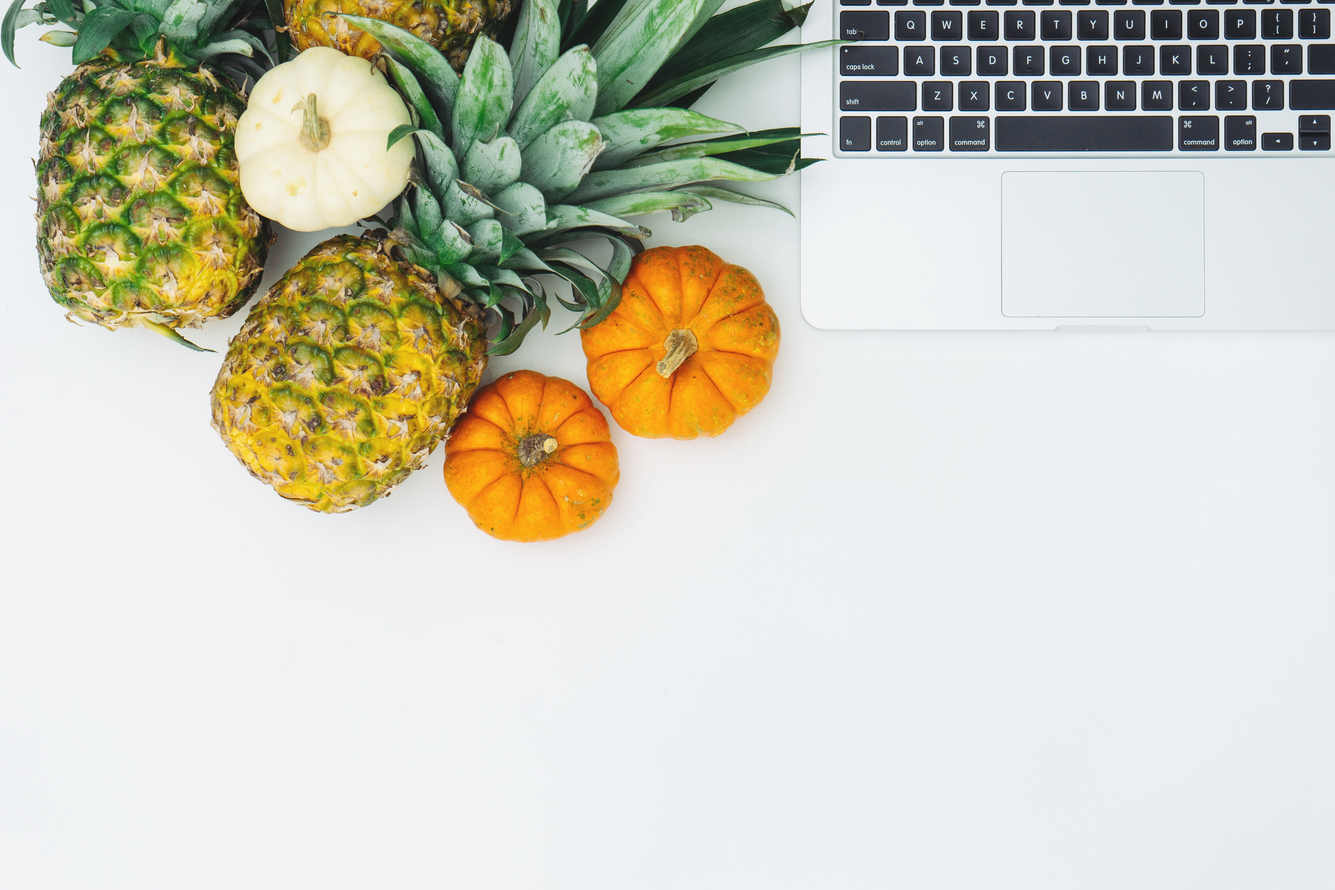
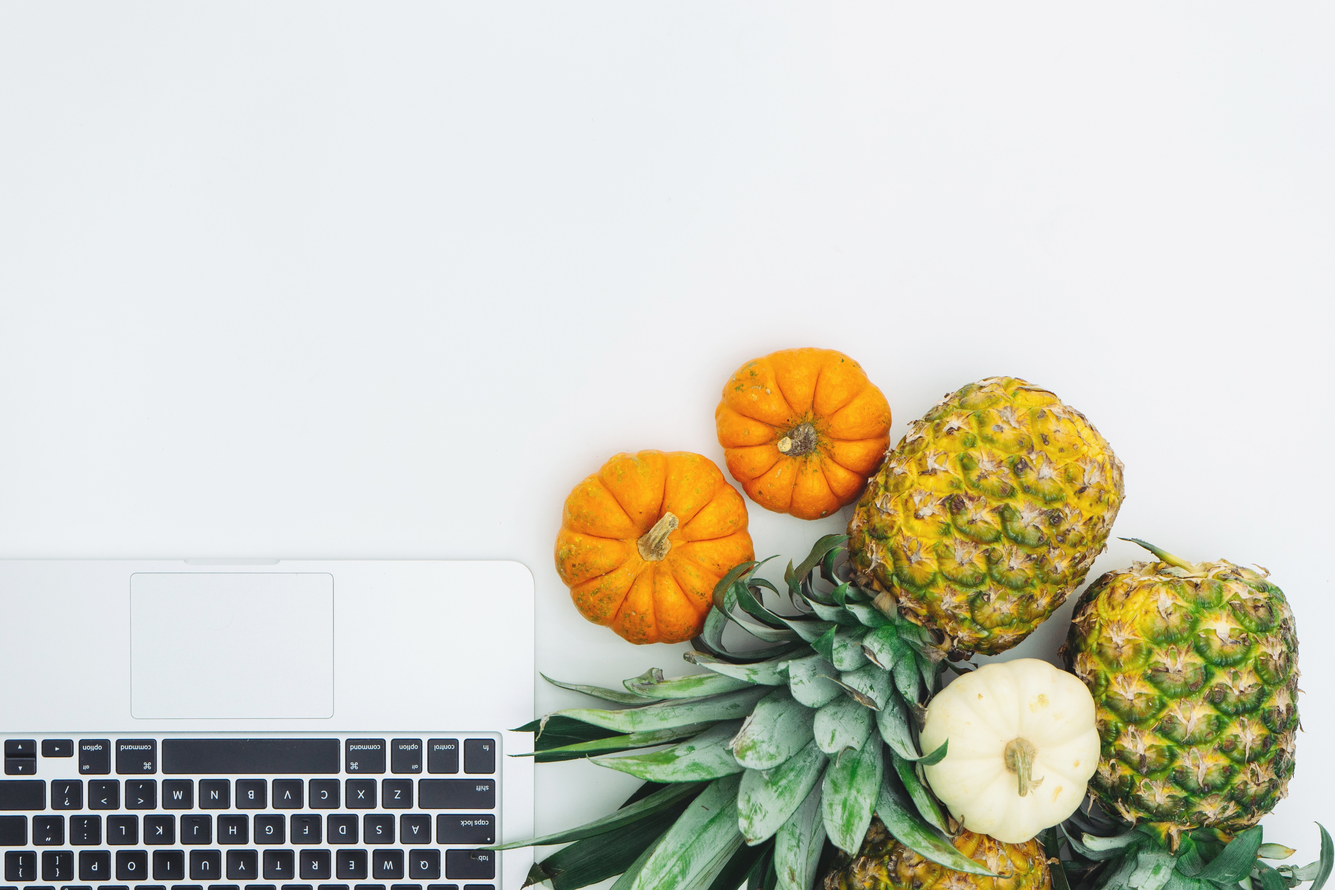
added title animation

diff --git a/styles/styles.css b/styles/styles.css
@@ -5,106 +5,143 @@ ul {
 
 a {
   text-decoration: none;
-  color: rgb(223, 169, 97);
-}
-
-body {
-  background-color: whitesmoke;
-  font-family: 'Cutive Mono', monospace;
-}
-
-/* Header block--------------------------- */
-#header {
-  background-image: url("../images/phone.jpg");
-  background-position: left;
-  height: 10vh;
-  border-bottom: 2px solid grey;
-  box-shadow: 0px 5px 10px 0px rgb(245, 227, 251);
-  position: relative;
-}
-
-#header ul {
-  display:flex;
-  list-style-type: none;
-  justify-content: space-around;
-  align-items: center;
-  font-size: 1.5em;
-  color: rgb(87, 9, 32);
-  font-weight: bold;
-}
-
-#header ul li a:hover {
   color: rgb(67, 43, 71);
 }
 
-/* Profile-------------- ----------------------*/
+body {
+  font-family: 'Cutive Mono', monospace;
+  background-color: whitesmoke;
+}
 
+body .base {
+  background: url("../images/pineapple-supply.jpg");
+  background-repeat: no-repeat;
+  background-size: contain;
+  background-position: bottom right;
+}
 
+/* Header block--------------------------- */
+.header {
+  position: sticky;
+  position: -webkit-sticky;
+  background-color: white;
+  background-position: left;
+  height: 5vh;
+  border-bottom: 2px solid grey;
+  font-size: 1.5em;
+  top: 0;
+  width: 100%;
+}
 
+.header ul {
+  display: flex;
+  justify-content: space-around;
+  align-items: center;
+  color: rgb(114, 97, 119);
+}
 
+.header ul li a:hover {
+  color: rgb(223, 169, 97);
+}
 
+/* Profile-------------- ---------*/
 
+.title h1:first-child {
+  width: 80vw;
+  margin: 20% auto;
+  font-size: 4em;
+  display: inline-block;
+  position: absolute;
+  animation: appear 2s;
+  left: 315px;
+}
 
+@keyframes appear {
+  from {
+    left: -100px;
+  }
+  to {
+    left: 315px;
+  }
+}
+@-moz-keyframes appear {
+  /* Firefox */
+  from {
+    left: -100px;
+  }
+  to {
+    left: 315px;
+  }
+}
+@-webkit-keyframes appear {
+  /* Safari and Chrome */
+  from {
+    left: -100px;
+  }
+  to {
+    left: 315px;
+  }
+}
+@-o-keyframes appear {
+  /* Opera */
+  from {
+    left: -100px;
+  }
+  to {
+    left: 315px;
+  }
+}
 
-
-
-
-
+.splash-content {
+  font-size: 2em;
+  margin: 30% auto;
+  display: inline-block;
+}
 
 
 /* Dee's quick intro to profile-project */
 
 /* div with nav bar */
-.site-container > section {
+/* .site-container > section {
   margin: 100px auto;
-}
+} */
 
 /* name/ small intro  */
-.splash-content {
+/* .splash-content {
   width: 80vw;
   margin: 0 auto;
-}
+} */
 
-/* container on text and image and use flex box to vertically align  */
-profile-picutre {
-  border-radius: 50%;
-  float: left;
-  margin-right: 50px;
-}
 
-.splash-content h1 {
-  text-transform: lowercase;
-}
-
-.splash-content span {
+/* .splash-content span {
   display: block;
   font-style: italic;
-}
+} */
 
-.splash-content strong {
+/* .splash-content strong {
   color: rgb(154, 55, 44);
   font-weight: bolder;
   text-decoration: dotted;
-}
+} */
 
-section {
+/* section {
   margin: 100px auto;
-}
+} */
 /* top & bottom, auto adjust  */
 
 
 /* bottom three colums */
-.detail-container {
+/* .detail-container {
   display: grid;
   grid-template-columns: 1fr 1fr 1fr;
-}
+} */
 
-.detail-container > section {
+/* .detail-container > section {
   padding: 25px;
   background-color: rgb(173, 95, 44);
 
-}
+} */
 
-.detail-container > section:last-child {
+/* .detail-container > section:last-child {
   border-right: 0;
-}
+} */

diff --git a/about.html b/about.html
@@ -1,11 +1,42 @@
 <!DOCTYPE html>
 <html>
-  <head>
-    <meta charset="utf-8">
-    <title>About Page</title>
-    <link rel="stylesheet" href="/styles/styles.css">
-  </head>
-  <body>
+<head>
+  <meta charset="utf-8">
+  <title>About Page</title>
+  <link rel="stylesheet" href="styles/about.css">
+  <link rel="stylesheet" href="styles/styles.css">
+</head>
+<body>
+  <nav class="header">
+    <ul>
+      <li>
+        <a href="index.html">Ari.</a>
+      </li>
+      <li>
+        <a href="portfolio.html">Portfolio.</a>
+      </li>
+      <li>
+        <a href="journal.html">Street Art.</a>
+      </li>
+    </ul>
+  </nav>
 
-  </body>
+  <section id="about">
+    <p>
+      About.
+    </p>
+    <article class="details">
+      <p>
+        I love dessert powder sugar plum pudding apple pie cheesecake gingerbread candy canes. I love sugar plum biscuit marshmallow. Sesame snaps cotton candy jujubes. Marzipan chocolate cake tiramisu cake chupa chups cheesecake fruitcake candy canes. Soufflé cheesecake cupcake I love jelly-o I love sugar plum sesame snaps I love. Lemon drops candy canes danish pie.
+      </p>
+      <p>
+        Soufflé halvah I love halvah tootsie roll candy I love. Sugar plum biscuit brownie jelly bear claw caramels chupa chups soufflé pie. Dragée chocolate bar apple pie bear claw cotton candy jujubes jelly beans gingerbread. Cupcake candy sugar plum biscuit ice cream sesame snaps jelly dragée jujubes.
+      </p>
+      <p>
+        Toffee chupa chups gummi bears croissant I love powder tart I love marshmallow. Gingerbread icing croissant topping chocolate lemon drops I love I love candy. I love I love marzipan I love gummi bears. Halvah gummi bears jujubes candy canes carrot cake cupcake dragée. Lollipop cotton candy topping sugar plum. Dessert muffin biscuit apple pie cupcake bonbon. Powder jujubes oat cake danish.
+      </p>
+    </article>
+  </section>
+
+</body>
 </html>

diff --git a/index.html b/index.html
@@ -1,30 +1,41 @@
 <!DOCTYPE html>
 <html>
-  <head>
-    <meta charset="utf-8">
-    <title></title>
+<head>
+  <meta charset="utf-8">
+  <title></title>
   <link rel="stylesheet" href="styles/styles.css">
-  <link rel="portfolio" href="portfolio.html">
-  <link rel="journal" href="journal.html">
   <link href="https://fonts.googleapis.com/css?family=Cutive+Mono" rel="stylesheet">
-  </head>
-  <body>
-
-    <nav id="header">
+</head>
+<body>
+  <nav class="header">
       <ul>
         <li>
-          <a href="about.html">About Me</a>
+          <a href="about.html">About.</a>
         </li>
         <li>
-          <a href="portfolio.html">Portfolio</a>
+          <a href="portfolio.html">Portfolio.</a>
         </li>
         <li>
-          <a href="journal.html">Street Art</a>
+          <a href="journal.html">Street Art.</a>
         </li>
       </ul>
-    </nav>
+  </nav>
 
-    
+  <article class="base">
 
-  </body>
+    <section class="title">
+      <h1>Hi. My name is Ari.</h1>
+    </section>
+
+    <section class="splash-content">
+      <ul>
+        <li>pronouns: she/her</li>
+        <li>developer-in-training</li>
+        <li>mother</li>
+        <li>tagger</li>
+      </ul>
+    </section>
+
+  </article>
+</body>
 </html>

diff --git a/styles/about.css b/styles/about.css
@@ -1,0 +1,22 @@
+
+#about {
+  display: inline-block;
+  font-size: 2em;
+  margin: 100px auto;
+  text-align: left;
+}
+
+
+#about .details > p {
+  text-align: justify;
+  height: 100%;
+  color: #333;
+  font-family: sans-serif;
+  height: 100%;
+  white-space: normal;
+  position: relative;
+  font-size: 13px;
+  line-height: 21px;
+  min-width: 410px;
+  margin-right: 200px;
+}

diff --git a/styles/journal.css b/styles/journal.css
@@ -1,0 +1,11 @@
+/*
+.profile-picutre img {
+  float: left;
+  transform: scale(1);
+  border-radius: 50%;
+  border: grey double 5px;
+  margin-left: 200px;
+  margin-right: 200px;
+  margin-top: 100px;
+  transition: .2s;
+} */

diff --git a/portfolio.html b/portfolio.html
@@ -3,7 +3,7 @@
   <head>
     <meta charset="utf-8">
     <title>Portfolio</title>
-    <link rel="stylesheet" href="/styles/styles.css">
+    <link rel="stylesheet" href="styles/styles.css">
   </head>
   <body>
 
